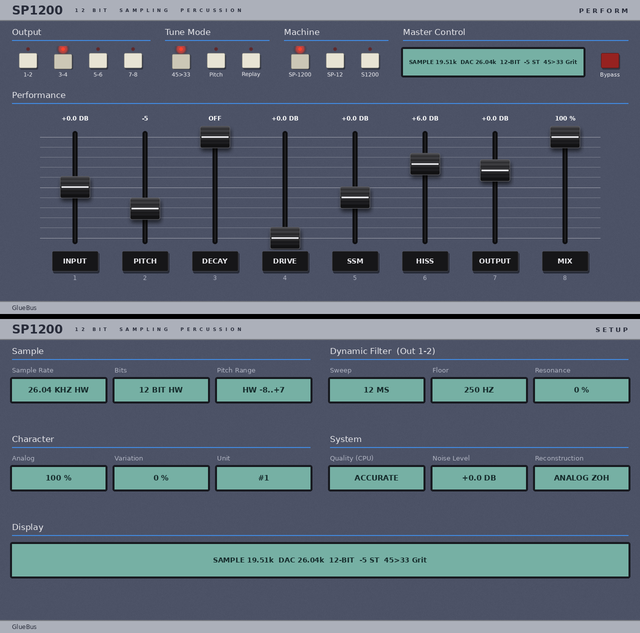
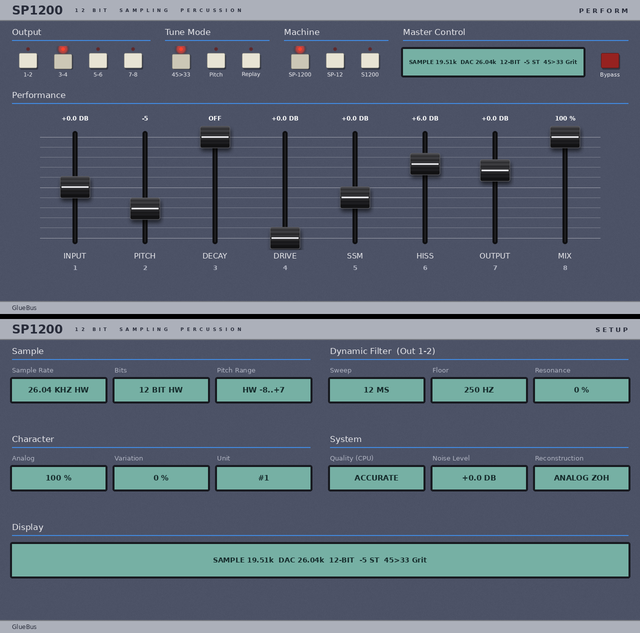
SP1200 skin: remove the pad keys under the sliders; names printed on the panel
Claude-Session: https://claude.ai/code/session_01XRqyjua6wzinB9NqNDDbhg

diff --git a/SP1200-MPC/tools/make_skin.py b/SP1200-MPC/tools/make_skin.py
@@ -267,11 +267,8 @@ def background(tab):
             d.line([x0, y, x1, y], fill=mix(BODY, PRINT, 0.5 if j in (0, 5, 10) else 0.28), width=1)
         for i, (key, lab) in enumerate(SLIDERS):
             cx = SX0 + i * SPITCH + BOXW / 2
-            kx, ky = cx - 46, SLIDER_Y + FH + 2                       # a black key under each slider, named like a pad label
-            d.rounded_rectangle([kx + 2, ky + 3, kx + 94, ky + 44], radius=3, fill=(40, 44, 56))
-            d.rounded_rectangle([kx, ky, kx + 92, ky + 40], radius=3, fill=(22, 22, 24), outline=(70, 70, 76))
-            text_c(d, cx, ky + 20, lab, font(14), PRINT)
-            text_c(d, cx, ky + 54, str(i + 1), font(12, "DejaVuSans.ttf"), PRINT_DIM)
+            text_c(d, cx, SLIDER_Y + FH + 12, lab, font(15, "DejaVuSans.ttf"), PRINT)   # printed on the panel, no pads
+            text_c(d, cx, SLIDER_Y + FH + 36, str(i + 1), font(13), PRINT_DIM)
         text_c(d, 1188 + KEY_W / 2, 92 + KEY_H - 8, "Bypass", font(11, "DejaVuSans.ttf"), PRINT)
     for item in BG_ITEMS[tab]:
         k = item[0]
